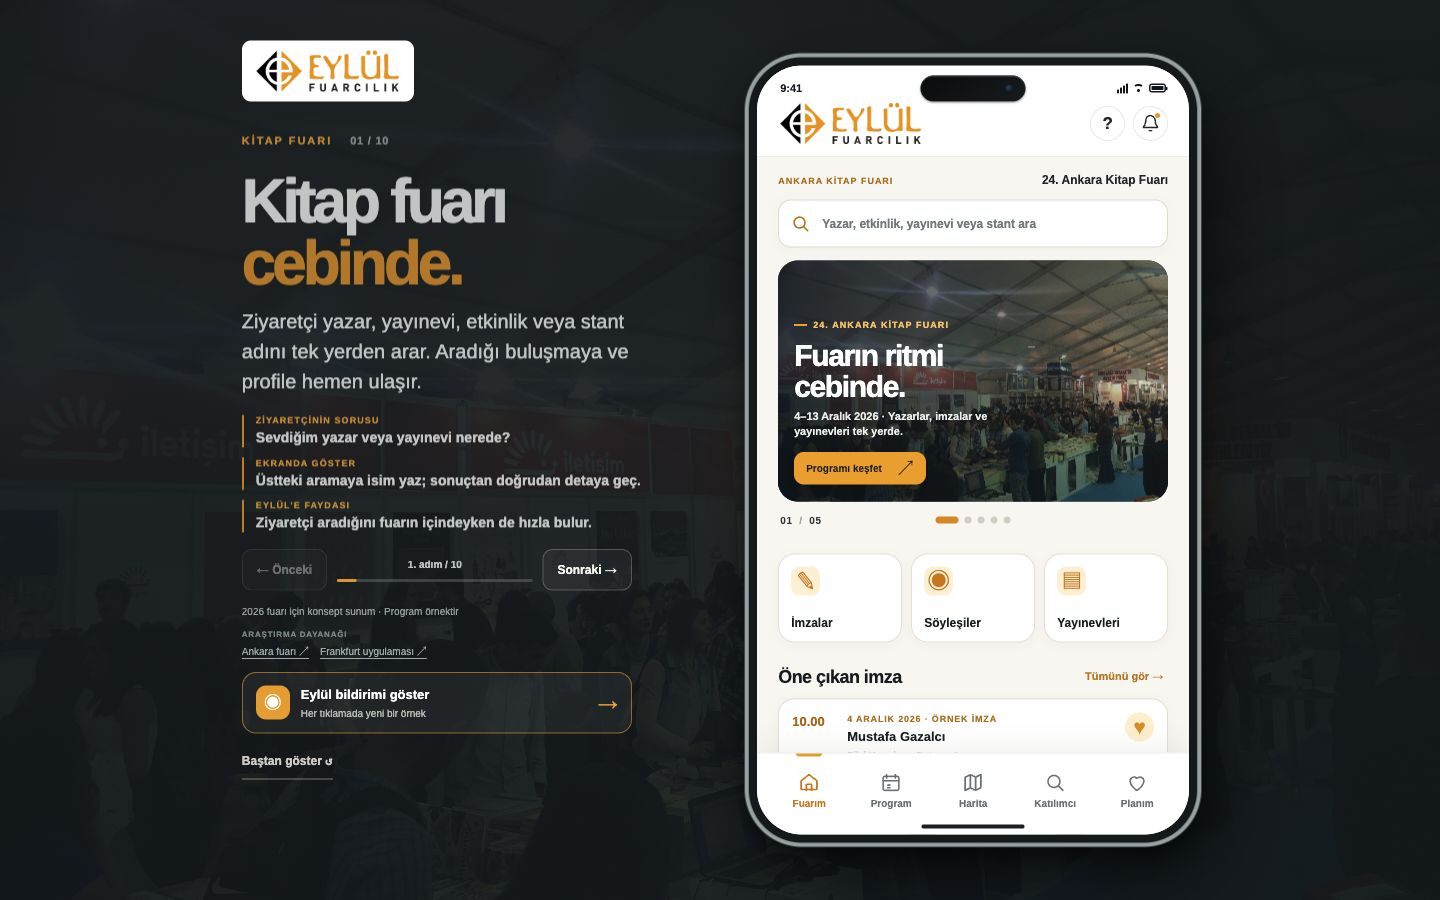
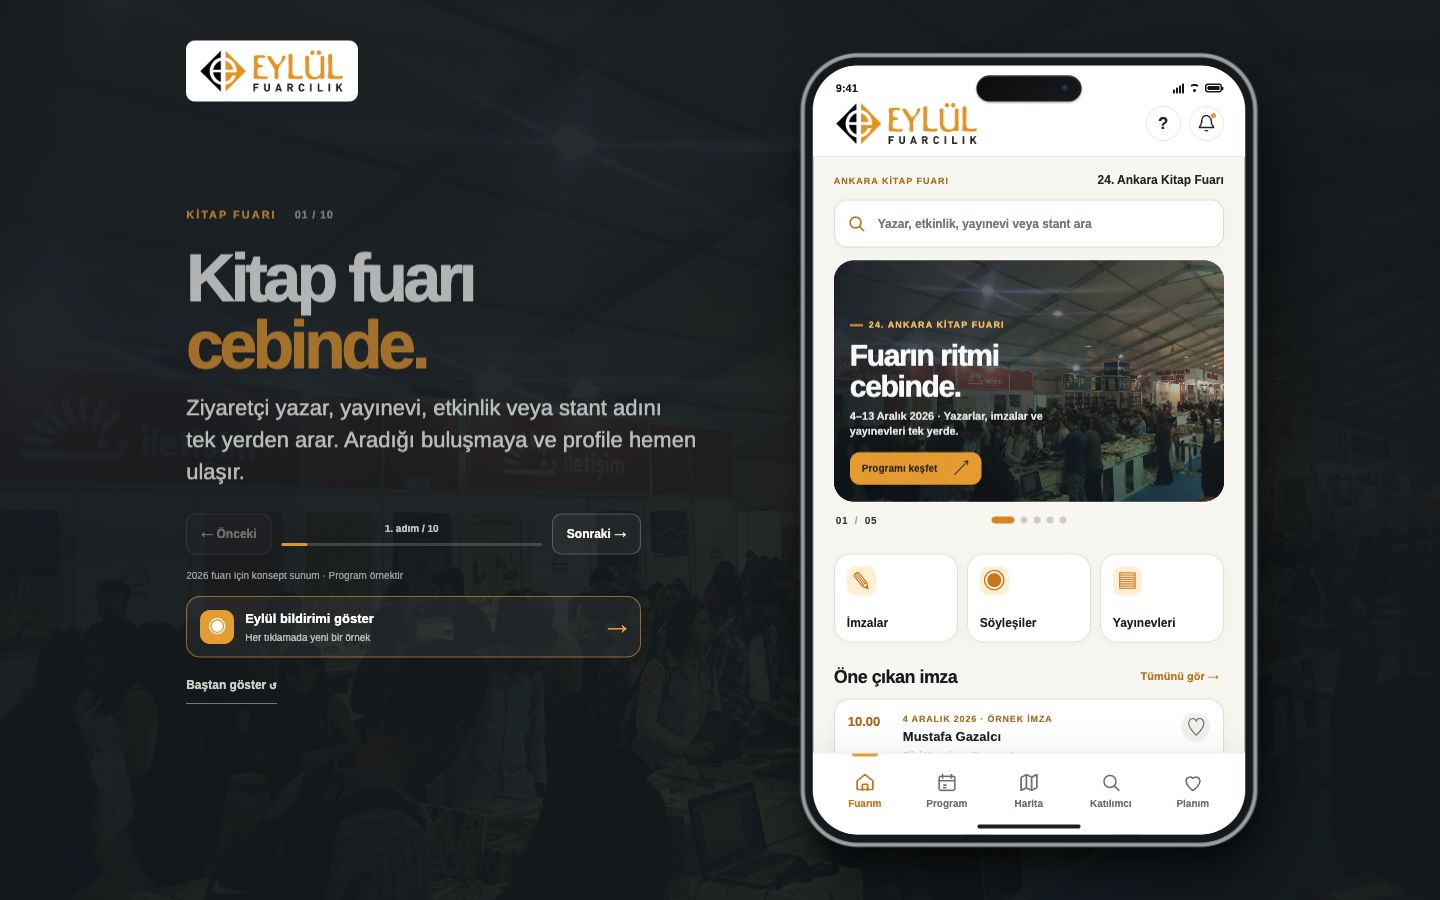
Simplify and widen fair presentation copy

Changed region(s): [[0.125, 0.0311, 0.875, 0.9644], [0.125, 0.0311, 0.3125, 0.1244], [0.1562, 0.84, 0.2188, 0.8711]]

diff --git a/fuar-rehberi-prototip/app.js b/fuar-rehberi-prototip/app.js
@@ -388,32 +388,6 @@ const compactSlides={
   passport:{kicker:'FUAR PASAPORTU',title:'Katıldıkça|keşfet.',description:'Etkinlik QR kodlarıyla katılım fikri, küçük ödüller için isteğe bağlı bir keşif akışı.'},
   about:{kicker:'EYLÜL FUARCILIK',title:'Her adımda|Eylül.',description:'Fuarı düzenleyen marka, uygulamanın içinde de görünür. Ziyaretçi organizatörü kolayca tanır.'}
 };
-const pitchNotes={
-  welcome:['Hangi fuara ait bilgiye bakacağım?','Kitap fuarı ve çocuk şenliğini tek girişten seç.','Eylül, bütün fuarlarında aynı rehberi kullanabilir.'],
-  home:['Sevdiğim yazar veya yayınevi nerede?','Üstteki aramaya isim yaz; sonuçtan doğrudan detaya geç.','Ziyaretçi aradığını fuarın içindeyken de hızla bulur.'],
-  program:['İmza mı, söyleşi mi; nereden başlamalıyım?','Programın iki ayrı girişini aç.','Kalabalık programı anlaşılır bir yolculuğa dönüştürür.'],
-  signings:['Yazarın imzası hangi gün, saat kaçta?','Günü seç, yazarı ara, kaydı aç.','Örnek program ve güncel içerik aynı düzende sunulur.'],
-  event:['İmzanın yeri ve saati tam olarak ne?','Etkinlik detayını, kalbi ve kroki bağlantısını göster.','Eksik bilgiyle danışmaya dönme ihtiyacı azalabilir.'],
-  talks:['İlgimi çeken söyleşiyi nasıl kaçırmam?','Konuya göre ara ve planına ekle.','Programın keşfedilmesi kolaylaşır.'],
-  publishersPage:['Yayınevi listesinde aradığımı nasıl bulurum?','Yayınevini ara, logosundan profiline gir.','Katılımcıya fuar boyunca görünür bir alan açar.'],
-  book:['Bu kitap hakkında ne biliyorum?','Kapağa dokun, tanıtımı ve kaynak sayfasını aç.','Kitap keşfi de uygulamanın içinde tamamlanır.'],
-  participant:['Bu yayınevinin yazarları ve imzaları kimler?','Kurum bilgisi, imza kaydı, yazar ve kitap kapağını göster.','Yayınevi için zengin ve güncellenebilir bir profil sunar.'],
-  plan:['Birden çok buluşmayı nasıl takip edeceğim?','Kalple kaydet, Planım ekranında listeyi aç.','Ziyaretçinin kişisel fuar akışı oluşur.'],
-  map:['Seçtiğim standa nasıl ulaşacağım?','Örnek alan planından yayınevi, imza ve söyleşi bölümlerine geç.','Alana dair soruları tek ekranda cevaplar.'],
-  notifications:['Saat veya salon değişirse nasıl haberim olur?','Ekranın üstündeki örnek bildirimi canlı göster.','Eylül, önemli güncellemeler için doğrudan bir kanal kazanır.'],
-  admin:['Duyuruyu herkes mi, ilgili ziyaretçi mi görmeli?','Hedef kitleyi seçip mesajı ziyaretçi ekranında önizle.','Duyuru akışı organizatörün kontrolünde olur.'],
-  discover:['Yazar ile yayınevi arasında nasıl gezineceğim?','Tek aramada isme göre bul, ilgili profili aç.','Katılımcı ve program bilgisi birbirine bağlanır.'],
-  passport:['Etkinliklere katılım nasıl oyunlaştırılabilir?','Örnek QR damgasını ve ilerlemeyi göster.','İsteğe bağlı katılım deneyimi tasarlanabilir.'],
-  about:['Uygulamanın arkasında kim var?','Eylül logosunu ve organizatör sayfasını aç.','Ziyaretçi ilişkiyi doğrudan Eylül markasıyla kurar.']
-};
-const childPitchNotes={
-  home:['Ailece hangi etkinlik bize uygun?','Etkinliği veya markayı ara, yaş ve saat bilgisini aç.','Aileler şenliği daha rahat planlayabilir.'],
-  program:['Çocuğuma uygun atölye ne zaman?','Günü ve etkinlik türünü seç.','Program aileler için daha kolay taranır.'],
-  event:['Yaş aralığı, saat ve alan bilgisi nerede?','Etkinlik detayını aç, planına ekle.','Aileye karar için gereken bilgiyi tek yerde sunar.'],
-  discover:['Hangi marka veya alanı arıyorum?','Katılımcı aramasını ve QR profil fikrini göster.','Marka ve etkinlik alanları keşfedilebilir olur.'],
-  participant:['Markanın şenlikteki yeri ve içeriği ne?','Profilde logo, web sitesi ve örnek fırsat alanını göster.','İş ortaklarına ayrı bir görünürlük alanı açar.'],
-  map:['Atölye ve sahne nerede?','Konsept krokide alanı seç.','Ailelerin yön bulmasını kolaylaştıracak temel hazırdır.']
-};
 $('.presentation').style.setProperty('--tour-steps',tourOrder.length);
 function showTourStep(index){
   const page=tourOrder[index];
@@ -456,8 +430,6 @@ function updatePresentation(){
   $('#preview-kicker').textContent=slide.kicker;
   $('#preview-title').innerHTML=slide.title.split('|').map((part,index)=>`<span class="${index?'accent':''}">${escapeHTML(part)}</span>`).join('<br>');
   $('#preview-description').textContent=slide.description;
-  const notes=(state.fair==='children'?childPitchNotes[state.page]:null)||pitchNotes[state.page]||pitchNotes.home;
-  $('#preview-highlights').innerHTML=notes.map((item,index)=>`<div class="pitch-note"><span class="pitch-label">${['ZİYARETÇİNİN SORUSU','EKRANDA GÖSTER','EYLÜL’E FAYDASI'][index]}</span><span class="pitch-text">${escapeHTML(item)}</span></div>`).join('');
   $('#tour-step-label').textContent=pageStep>=0?`${step+1}. adım / ${tourOrder.length}`:'Serbest keşif';
   $('#tour-progress b').style.width=`${(step+1)/tourOrder.length*100}%`;
   $('#tour-previous').disabled=step===0;

diff --git a/fuar-rehberi-prototip/style.css b/fuar-rehberi-prototip/style.css
@@ -277,14 +277,11 @@ button:active,.event-copy:active{transform:scale(.99)}
   .welcome-screen .welcome-photo{height:clamp(210px,29svh,285px)}
 }
 
-/* Sunucunun anlatım notları başlıkla birlikte yukarıda dursun. */
+/* Sunum metni rahat okunur; kontroller başlığın altında kalır. */
 @media(min-width:851px){
   .preview-copy{justify-content:flex-start}
   .preview-main{margin-top:clamp(168px,20vh,265px);padding-bottom:0}
   .preview-copy p{max-width:425px;font-size:20px;line-height:1.48;color:#e0e4e2}
-  .preview-highlights{display:grid;gap:10px;margin-top:24px}
-  .preview-highlights div{display:flex;align-items:baseline;gap:12px;color:#cbd2d0;font-size:16px;font-weight:650;line-height:1.3}
-  .preview-highlights i{width:7px;height:7px;flex:0 0 7px;border-radius:50%;background:#f59b1b}
   .preview-footer{position:static;top:auto;bottom:auto;left:auto;width:min(100%,390px);margin-top:clamp(22px,3vh,42px)}
   .presenter-controls{margin:0 0 14px}
   .presenter-controls button{padding:11px 14px;font-size:12px}
@@ -293,8 +290,6 @@ button:active,.event-copy:active{transform:scale(.99)}
   .preview-main{margin-top:148px}
   .preview-copy h1{font-size:clamp(46px,4.5vw,56px)}
   .preview-copy p{font-size:18px}
-  .preview-highlights{gap:7px;margin-top:16px}
-  .preview-highlights div{font-size:14px}
   .preview-footer{margin-top:18px}
   .preview-push{margin-top:14px}
   .preview-reset{margin-top:9px}
@@ -463,26 +458,21 @@ button:active,.event-copy:active{transform:scale(.99)}
 .author-book strong{display:block;margin:8px 2px 0;color:#222a2d;font-size:11px;line-height:1.28;font-weight:800}
 .author-books-note{margin:7px 2px 0;color:#8b9292;font-size:9px;line-height:1.4}
 
-/* Sunucunun üç konuşma notu görünür ve kısa kalır. */
+/* Geniş sol anlatım alanı, sade sunum akışı. */
 @media(min-width:851px){
-  .preview-main{margin-top:clamp(116px,14vh,178px)}
-  .preview-highlights{gap:10px;margin-top:19px}
-  .preview-highlights .pitch-note{display:block;padding:0 0 0 12px;border-left:2px solid #e69218;line-height:1.24}
-  .pitch-label{display:block;color:#efa330;font-size:9px;font-weight:800;letter-spacing:.12em}
-  .pitch-text{display:block;margin-top:3px;color:#e4e8e6;font-size:14px;font-weight:700;line-height:1.31}
-  .preview-footer{margin-top:20px}
-  .preview-sources{display:flex;align-items:center;flex-wrap:wrap;gap:5px 11px;margin-top:9px;color:#a8b2b2;font-size:10px}
-  .preview-sources span{width:100%;font-size:8px;font-weight:800;letter-spacing:.1em;color:#828f90}
-  .preview-sources a{text-decoration:underline;text-underline-offset:3px}
+  .presentation{grid-template-columns:minmax(320px,560px) minmax(390px,450px);gap:clamp(24px,4vw,64px);overflow-x:clip}
+  .preview-copy{max-width:560px}
+  .preview-main{margin-top:clamp(172px,22vh,240px)}
+  .preview-copy h1{max-width:560px;font-size:clamp(50px,4.7vw,68px)}
+  .preview-copy p{max-width:510px;font-size:22px;line-height:1.46}
+  .preview-footer{width:min(100%,455px);margin-top:30px}
   .preview-push{margin-top:13px}
   .preview-reset{margin-top:10px}
 }
 @media(min-width:851px) and (max-height:820px){
-  .preview-main{margin-top:105px}
+  .preview-main{margin-top:clamp(125px,18vh,160px)}
   .preview-copy h1{font-size:clamp(40px,4.1vw,52px);margin:13px 0 11px}
-  .preview-copy p{font-size:16px;line-height:1.35}
-  .preview-highlights{gap:7px;margin-top:13px}
-  .pitch-text{font-size:12px}
+  .preview-copy p{font-size:19px;line-height:1.4}
   .preview-footer{margin-top:14px}
   .preview-push{margin-top:10px}
 }

diff --git a/fuar-rehberi-prototip/index.html b/fuar-rehberi-prototip/index.html
@@ -7,8 +7,8 @@
   <title>Eylül Fuar Rehberi — Etkileşimli tasarım</title>
   <meta name="description" content="Eylül Fuarcılık için ziyaretçinin fuarı baştan sona takip edebildiği etkileşimli mobil rehber tasarımı.">
   <link rel="icon" type="image/png" href="assets/eylul-fuarcilik-logo.png">
-  <link rel="stylesheet" href="style.css?v=20261015-18">
-  <script src="app.js?v=20261015-18" defer></script>
+  <link rel="stylesheet" href="style.css?v=20261015-19">
+  <script src="app.js?v=20261015-19" defer></script>
 </head>
 <body>
   <div class="presentation">
@@ -18,7 +18,6 @@
         <div class="preview-heading"><span class="eyebrow" id="preview-kicker">ZİYARETÇİ DENEYİMİ</span><span class="preview-count" id="preview-count">01 / 10</span></div>
         <h1 id="preview-title" aria-live="polite">Kitap fuarı cebinde.</h1>
         <p id="preview-description">Ankara Kitap Fuarı ziyaretçisi aradığını tek yerde bulur.</p>
-        <div class="preview-highlights" id="preview-highlights" aria-label="Sunum notları"></div>
       </div>
       <div class="preview-footer">
         <div class="presenter-controls" aria-label="Sunum adımları">
@@ -27,7 +26,6 @@
           <button type="button" data-tour="next" id="tour-next">Sonraki →</button>
         </div>
         <small id="preview-note">2026 fuarı için konsept sunum · Program örnektir</small>
-        <div class="preview-sources"><span>ARAŞTIRMA DAYANAĞI</span><a href="https://ankarakitapfuari.org.tr/" target="_blank" rel="noopener noreferrer">Ankara fuarı ↗</a><a href="https://www.buchmesse.de/en/app" target="_blank" rel="noopener noreferrer">Frankfurt uygulaması ↗</a></div>
         <button class="preview-push" type="button" data-action="simulate-notification"><span>◉</span><span><strong>Eylül bildirimi göster</strong><small>Her tıklamada yeni bir örnek</small></span><b>→</b></button>
         <button class="preview-reset" type="button" data-action="restart-demo">Baştan göster ↺</button>
       </div>
